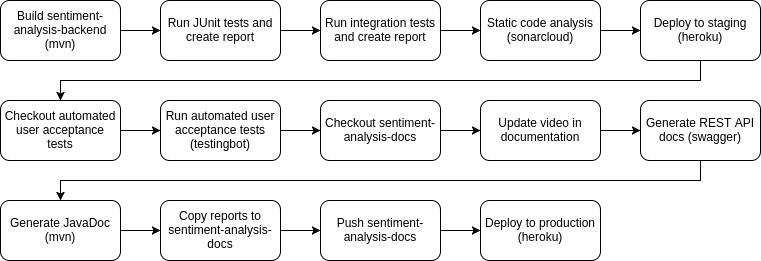
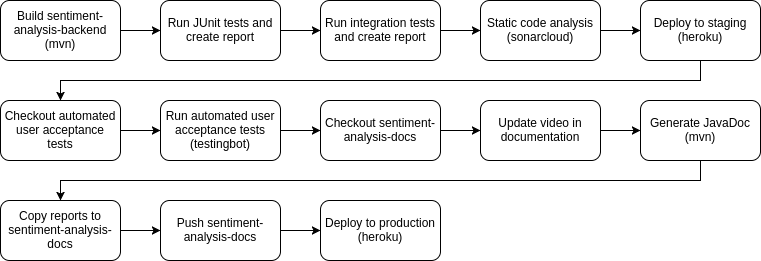
remove api documentation section

diff --git a/index.html b/index.html
@@ -80,7 +80,7 @@
                                     <li><a href="#line3_4">CI/CD Pipeline</a></li>
                                     <li><a href="#line3_5">UML diagrams</a></li>
                                     <li><a href="#line3_6">JavaDoc</a></li>
-                                    <li><a href="#line3_7">API documentation</a></li>
+                                    <!-- <li><a href="#line3_7">API documentation</a></li> -->
                                     <li><a href="#line3_8">Unit test report</a></li>
                                     <li><a href="#line3_9">Integration test report</a></li>
                                     <li><a href="#line3_10">SonarQube Report</a></li>
@@ -420,13 +420,14 @@
                         </div>
                         <!-- end row -->
 
+                        <!--
                         <div class="row">
                             <div class="col-md-12 left-align">
                               <h2 id="line3_7">API documentation <a href="#top" class="toplink">#back to top</a></h2>
                               <p>Lorem the It is a long established fact that a reader will be distracted by the readable content of a page when looking at its layout. The point of using Lorem Ipsum is that it has a more-or-less normal distribution of letters, as opposed to using 'Content here, content here', making it look like readable English. long established fact that a reader will English.</p>
                             </div>
                         </div>
-                        <!-- end row -->
+                      -->
 
                         <div class="row">
                             <div class="col-md-12 left-align">
